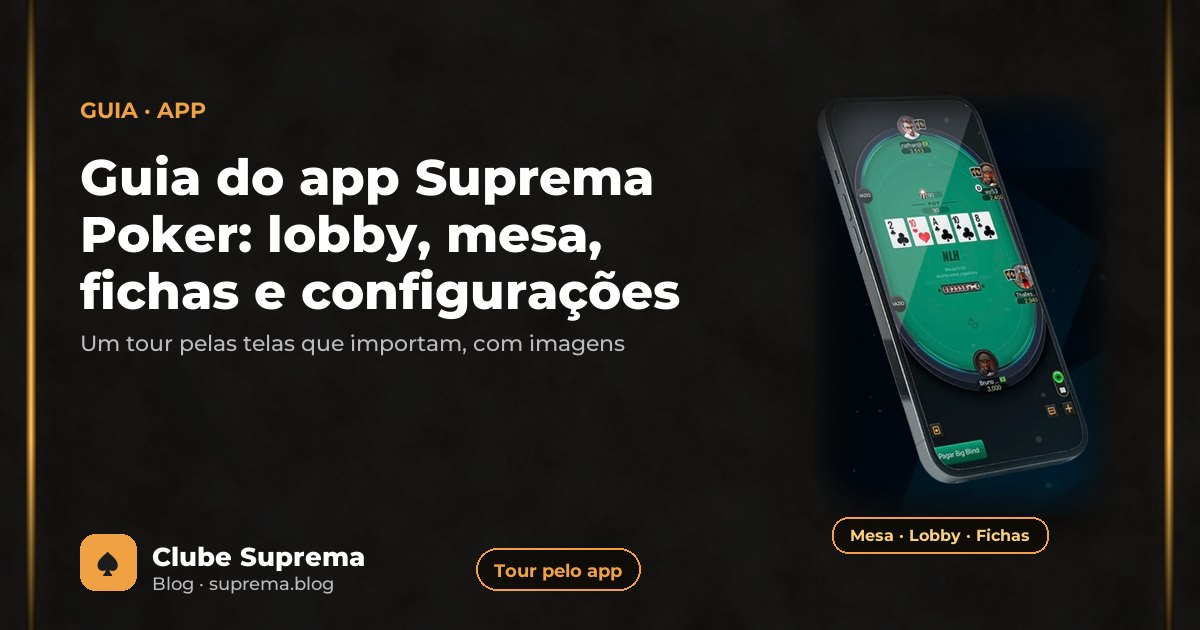
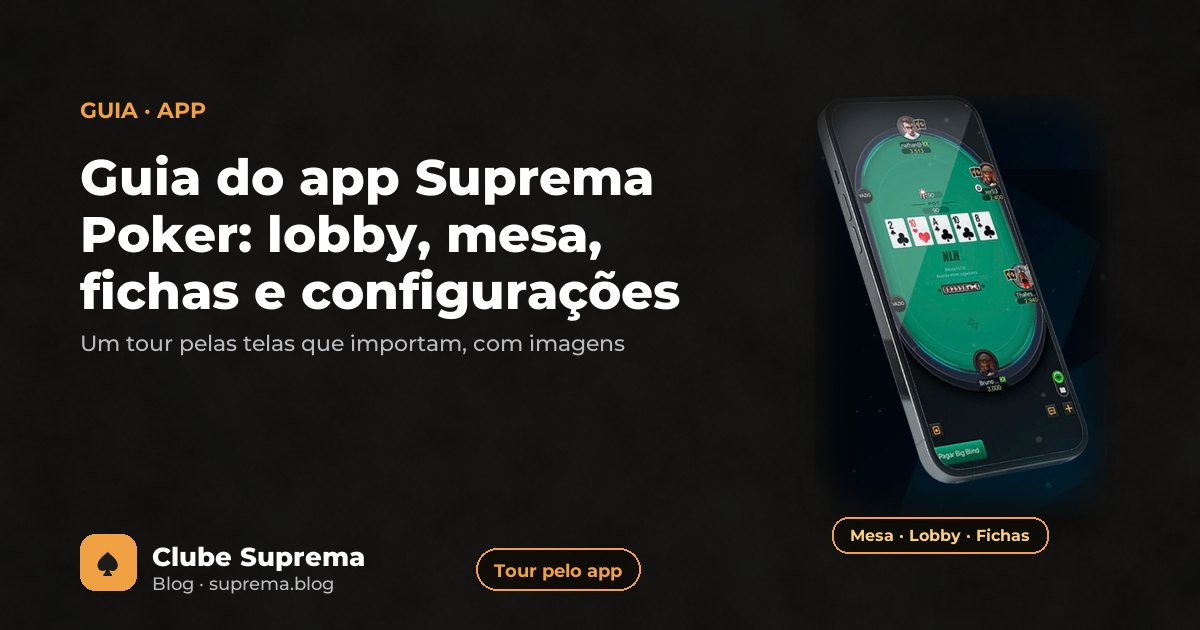
Remove as barras douradas laterais; fundo preto fosco limpo no site, nas capas e no kit do YouTube

Changed region(s): [[0.0, 0.0, 0.0308, 1.0], [0.9558, 0.0, 0.9867, 0.9952]]

diff --git a/public/styles.css b/public/styles.css
@@ -42,16 +42,8 @@
   --panel: rgba(16, 12, 7, .72);
   --card-luxo: linear-gradient(180deg, rgba(30, 22, 12, .80), rgba(12, 10, 8, .94));
   --glow-gold: 0 0 40px rgba(239, 161, 68, .18);
-  /* Barras douradas laterais (fundo "preto sofisticado") e recuo lateral do conteúdo */
-  --side: 16px;
-  --bar-w: 5px;
-  --bar-x: 0px;
-  --gold-bar: linear-gradient(90deg, #4a2f0a 0%, #b87a24 22%, #f3d07f 50%, #b87a24 78%, #4a2f0a 100%);
-  --gold-bar-fade: linear-gradient(180deg, rgba(0, 0, 0, .75), rgba(0, 0, 0, 0) 28%, rgba(0, 0, 0, 0) 72%, rgba(0, 0, 0, .75));
-  --gold-bar-glow-l: linear-gradient(90deg, rgba(243, 208, 127, .16), rgba(243, 208, 127, 0));
-  --gold-bar-glow-r: linear-gradient(270deg, rgba(243, 208, 127, .16), rgba(243, 208, 127, 0));
+  --side: 16px; /* recuo lateral do conteúdo */
 }
-@media (min-width: 720px) { :root { --side: 44px; --bar-w: 12px; --bar-x: 16px; } }
 
 * { box-sizing: border-box; }
 html { scroll-behavior: smooth; }
@@ -80,16 +72,6 @@ p { margin: 0 0 1em; }
 /* Fundo vivo */
 .bg { position: fixed; inset: 0; z-index: -1; pointer-events: none; overflow: hidden; background: url("/img/bg-luxo.webp") center / cover no-repeat #060606; }
 @media (max-width: 720px) { .bg { background-image: url("/img/bg-luxo-m.webp"); } }
-.bg::after, body.page-blog::after, body.page-post::after {
-  content: ""; position: fixed; inset: 0; z-index: -1; pointer-events: none;
-  background:
-    var(--gold-bar-fade) var(--bar-x) 0 / var(--bar-w) 100% no-repeat,
-    var(--gold-bar) var(--bar-x) 0 / var(--bar-w) 100% no-repeat,
-    var(--gold-bar-glow-l) calc(var(--bar-x) + var(--bar-w)) 0 / 48px 100% no-repeat,
-    var(--gold-bar-fade) right var(--bar-x) top 0 / var(--bar-w) 100% no-repeat,
-    var(--gold-bar) right var(--bar-x) top 0 / var(--bar-w) 100% no-repeat,
-    var(--gold-bar-glow-r) right calc(var(--bar-x) + var(--bar-w)) top 0 / 48px 100% no-repeat;
-}
 .bg-glow { position: absolute; border-radius: 50%; filter: blur(90px); opacity: .1; }
 .bg-glow-1 { width: 60vw; height: 60vw; max-width: 760px; max-height: 760px; right: -18vw; top: -22vw; background: radial-gradient(circle, rgba(239, 161, 68, .28), rgba(239, 161, 68, 0) 65%); animation: drift 18s ease-in-out infinite alternate; }
 .bg-glow-2 { width: 50vw; height: 50vw; max-width: 640px; max-height: 640px; left: -20vw; top: 55vh; background: radial-gradient(circle, rgba(239, 161, 68, .14), rgba(239, 161, 68, 0) 65%); animation: drift 22s ease-in-out infinite alternate-reverse; }

diff --git a/public/blog.css b/public/blog.css
@@ -9,7 +9,6 @@ body.page-blog::before, body.page-post::before {
   background: url("/img/bg-luxo.webp") center / cover no-repeat #060606;
 }
 @media (max-width: 720px) { body.page-blog::before, body.page-post::before { background-image: url("/img/bg-luxo-m.webp"); } }
-/* as barras douradas laterais (::after) vêm de styles.css */
 
 /* Topo e marca */
 .page-blog .topbar, .page-post .topbar { background: rgba(5, 5, 5, .78); }

diff --git a/tools/imagens/luxo.py b/tools/imagens/luxo.py
@@ -165,7 +165,7 @@ def paste(img, im, xy, shadow=True, glow=0.0):
 BAR_COLORS = [(74, 47, 10), (184, 122, 36), (243, 208, 127), (184, 122, 36), (74, 47, 10)]
 
 
-def plaster_texture(W, H, base=9, amplitude=0.11, warm=1):
+def plaster_texture(W, H, base=8, amplitude=0.08, warm=1):
     """Textura preta fosca: ruido em tres escalas (grao, manchas medias e grandes), levemente mais claro no centro."""
     n1 = Image.effect_noise((W, H), 60).filter(ImageFilter.GaussianBlur(1.1))
     n2 = Image.effect_noise((max(2, W // 4), max(2, H // 4)), 60).resize((W, H), Image.BICUBIC).filter(ImageFilter.GaussianBlur(5))

diff --git a/tools/imagens/youtube.py b/tools/imagens/youtube.py
@@ -82,7 +82,7 @@ SX1, SY1 = SX0 + SAFE_W, SY0 + SAFE_H            # 2053, 931
 
 
 def banner():
-    img = luxo.sophisticated_background(W, H, inset=44, width=16)
+    img = luxo.sophisticated_background(W, H, bars=False)
 
     # decoracao fora da area segura (aparece no desktop e na TV)
     luxo.paste(img, chip(250), (120, SY0 + 70))

diff --git a/tools/imagens/capas.py b/tools/imagens/capas.py
@@ -40,7 +40,7 @@ def overlay(img, fn):
 
 
 def background():
-    return luxo.sophisticated_background(W, H, inset=26, width=10)
+    return luxo.sophisticated_background(W, H, bars=False)
 
 def brand_mark(d, x, y, s):
     d.rounded_rectangle((x, y, x + s, y + s), radius=int(s * 0.28), fill=GOLD)

diff --git a/docs/design-system.md b/docs/design-system.md
@@ -94,7 +94,7 @@ vivem em `public/styles.css`; os neutros ficaram quentes (`--bg-1 #15110a`, `--c
 
 | Elemento | Regra | Onde |
 |---|---|---|
-| Fundo | "preto sofisticado" (24/10/2026, 2ª referência do usuário): preto fosco `#060606` com textura de reboco (ruído em 3 escalas, vinheta leve) e duas barras douradas finas nas laterais, com relevo escuro-claro-escuro e pontas que escurecem. Sem feixes, partículas ou brilhos | textura: `public/img/bg-luxo.webp` e `bg-luxo-m.webp` (`luxo.plaster_texture`), na LP em `.bg`, no blog via `body.page-blog::before`; barras em CSS (`.bg::after`, `body.page-blog::after`) com `--gold-bar`, `--bar-w`/`--bar-x` (5 px na borda no celular, 12 px a 16 px da borda no desktop); conteúdo recua `--side` (16 px / 44 px). Nas imagens, `luxo.gold_bars()` |
+| Fundo | preto fosco `#060606` com textura sutil de reboco (ruído em 3 escalas, vinheta leve), sem feixes, brilhos ou barras. As barras douradas laterais da referência do usuário foram testadas em 24/10/2026 e rejeitadas por ele ("horrível"); mudanças de fundo pedem prévia antes de publicar | textura: `public/img/bg-luxo.webp` e `bg-luxo-m.webp` (`luxo.plaster_texture`), na LP em `.bg`, no blog via `body.page-blog::before` |
 | Degradê dourado | `linear-gradient(180deg, #f9cf7f 0%, #efa144 52%, #d4852a 100%)` com brilho fino no topo | `--gold-grad` em `blog.css`; botões `.btn`, marca `.brand-mark`, `luxo.gold_rounded()` nas imagens |
 | Botão | degradê dourado, texto `#1a1206` em caixa alta, peso 800, raio 14 px, sombra dourada suave; `.btn-ghost.btn-block` (frases longas) fica em caixa normal | `.btn` em `styles.css` |
 | Botão fantasma | fundo quase transparente, borda 1 px dourada, texto `#f3b662` | `.btn-ghost` |
